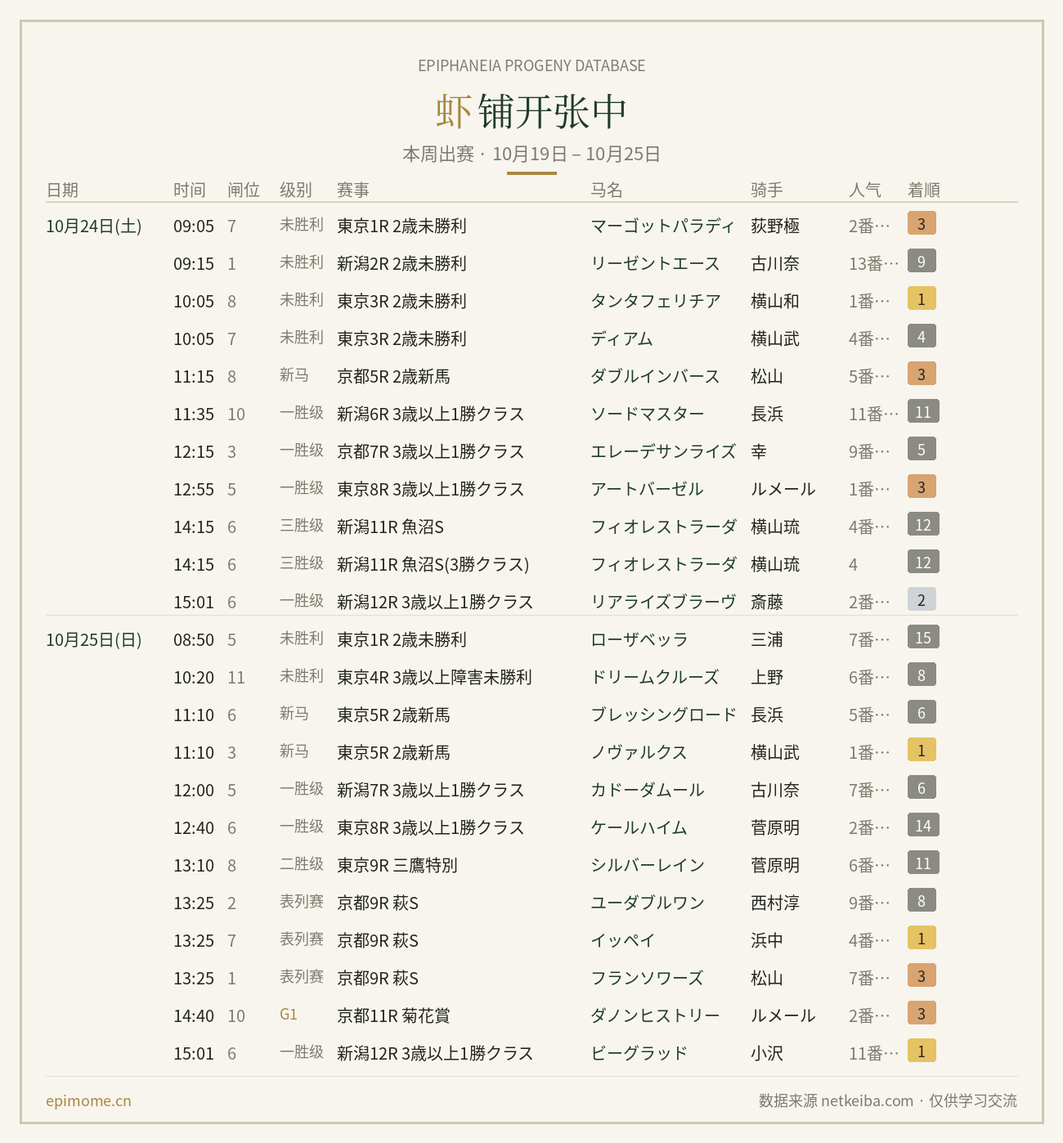
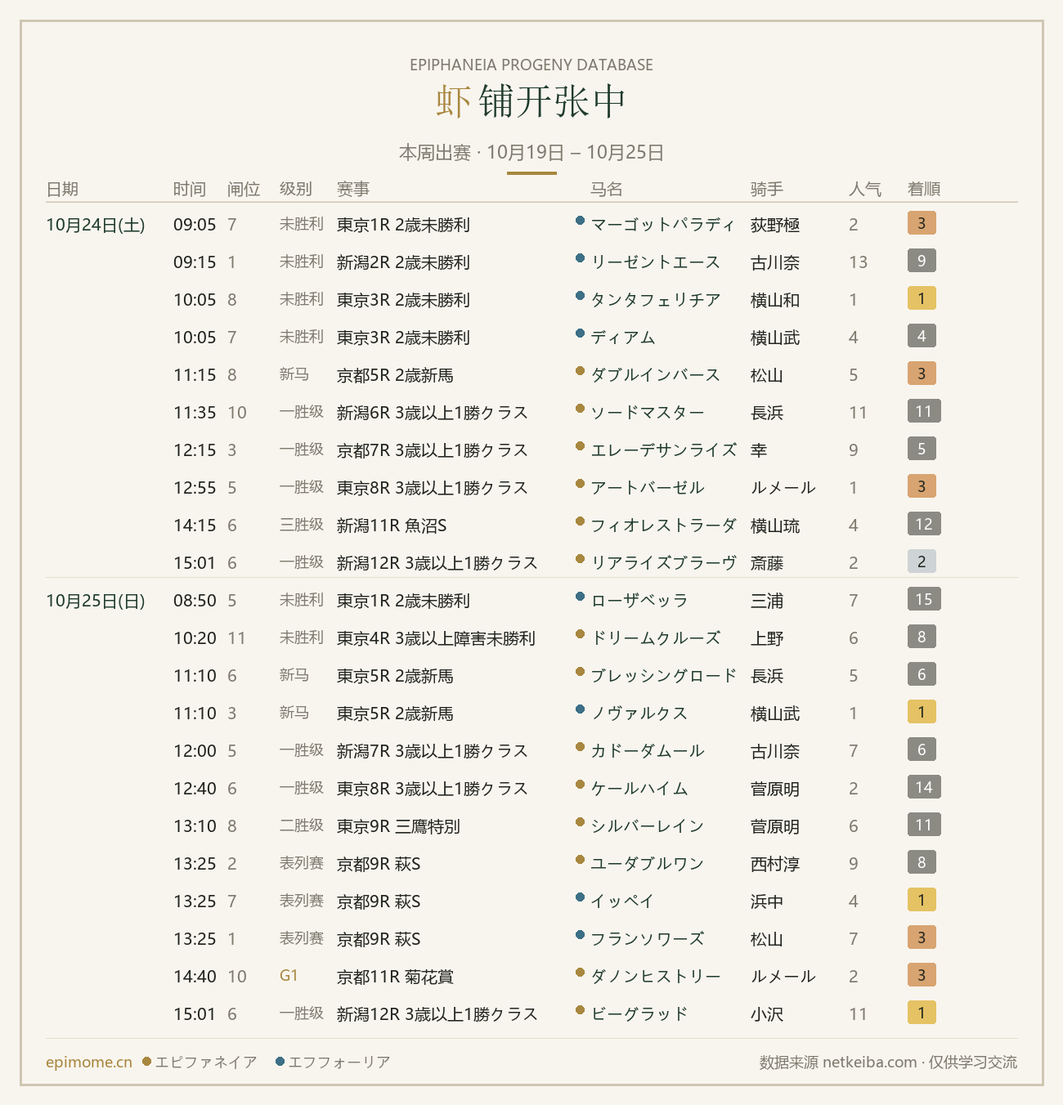
出赛体验优化
- 首页本周出赛显示日期（M/D）
- 本周出赛页新增周切换（可查看往期，默认本周）
- 首页本周无数据时自动显示最近一周
- 出赛表图片用金/蓝圆点区分两匹种马，底部加图例
- 人气列去掉「番人気」避免截断
- 合并时按 日期+马+场次 去重
- 次要文字与金色文字加深，满足对比度要求

diff --git a/thisweek.js b/thisweek.js
@@ -1,2 +1,2 @@
 // 本文件由 scrape_and_build.py 自动生成
-const 本周出马 = [{"date": "10月23日", "time": "13:10", "race": "笠松8R C11組", "cls": "", "status": "結果確定", "name": "レジオンポレール", "id": "2023103786", "jockey": "渡辺竜也", "fav": "", "order": "3", "num": "11", "sire": "エピファネイア", "region": "地方"}, {"date": "10月23日", "time": "14:25", "race": "浦和7R C1五六", "cls": "", "status": "結果確定", "name": "パドメ", "id": "2022107339", "jockey": "秋元耕成", "fav": "", "order": "12", "num": "1", "sire": "エピファネイア", "region": "地方"}, {"date": "10月23日", "time": "16:20", "race": "園田6R C3", "cls": "", "status": "結果確定", "name": "キャスパインパクト", "id": "2022100963", "jockey": "永井孝典", "fav": "", "order": "8", "num": "5", "sire": "エピファネイア", "region": "地方"}, {"date": "10月23日", "time": "17:30", "race": "園田8R C2二", "cls": "", "status": "結果確定", "name": "ヤマトフェイス", "id": "2021105013", "jockey": "田野豊三", "fav": "", "order": "2", "num": "9", "sire": "エピファネイア", "region": "地方"}, {"date": "10月24日(土)", "time": "09:05", "rid": "202605040801", "race": "東京1R 2歳未勝利", "cls": "未胜利", "status": "結果確定", "name": "マーゴットパラディ", "id": "2024101971", "jockey": "荻野極", "fav": "2番人気", "order": "3", "num": "7", "sire": "エフフォーリア", "region": "中央"}, {"date": "10月24日(土)", "time": "09:15", "rid": "202604040302", "race": "新潟2R 2歳未勝利", "cls": "未胜利", "status": "結果確定", "name": "リーゼントエース", "id": "2024104845", "jockey": "古川奈", "fav": "13番人気", "order": "9", "num": "1", "sire": "エフフォーリア", "region": "中央"}, {"date": "10月24日(土)", "time": "10:05", "rid": "202605040803", "race": "東京3R 2歳未勝利", "cls": "未胜利", "status": "結果確定", "name": "タンタフェリチア", "id": "2024101733", "jockey": "横山和", "fav": "1番人気", "order": "1", "num": "8", "sire": "エフフォーリア", "region": "中央"}, {"date": "10月24日(土)", "time": "10:05", "rid": "202605040803", "race": "東京3R 2歳未勝利", "cls": "未胜利", "status": "結果確定", "name": "ディアム", "id": "2024102901", "jockey": "横山武", "fav": "4番人気", "order": "4", "num": "7", "sire": "エフフォーリア", "region": "中央"}, {"date": "10月24日(土)", "time": "11:15", "rid": "202608040805", "race": "京都5R 2歳新馬", "cls": "新马", "status": "結果確定", "name": "ダブルインバース", "id": "2024100462", "jockey": "松山", "fav": "5番人気", "order": "3", "num": "8", "sire": "エピファネイア", "region": "中央"}, {"date": "10月24日(土)", "time": "11:35", "rid": "202604040306", "race": "新潟6R 3歳以上1勝クラス", "cls": "一胜级", "status": "結果確定", "name": "ソードマスター", "id": "2022105415", "jockey": "長浜", "fav": "11番人気", "order": "11", "num": "10", "sire": "エピファネイア", "region": "中央"}, {"date": "10月24日(土)", "time": "12:15", "rid": "202608040807", "race": "京都7R 3歳以上1勝クラス", "cls": "一胜级", "status": "結果確定", "name": "エレーデサンライズ", "id": "2023100912", "jockey": "幸", "fav": "9番人気", "order": "5", "num": "3", "sire": "エピファネイア", "region": "中央"}, {"date": "10月24日(土)", "time": "12:55", "rid": "202605040808", "race": "東京8R 3歳以上1勝クラス", "cls": "一胜级", "status": "結果確定", "name": "アートバーゼル", "id": "2023106964", "jockey": "ルメール", "fav": "1番人気", "order": "3", "num": "5", "sire": "エピファネイア", "region": "中央"}, {"date": "10月24日(土)", "time": "14:15", "rid": "202604040311", "race": "新潟11R 魚沼S", "cls": "三胜级", "status": "結果確定", "name": "フィオレストラーダ", "id": "2022100626", "jockey": "横山琉", "fav": "4番人気", "order": "12", "num": "6", "sire": "エピファネイア", "region": "中央"}, {"date": "10月24日(土)", "time": "14:15", "rid": "202604040311", "race": "新潟11R 魚沼S(3勝クラス)", "cls": "三胜级", "status": "結果確定", "name": "フィオレストラーダ", "id": "2022100626", "jockey": "横山琉", "fav": "4", "order": "12", "num": "6", "sire": "エピファネイア", "region": "中央"}, {"date": "10月24日(土)", "time": "15:01", "rid": "202604040312", "race": "新潟12R 3歳以上1勝クラス", "cls": "一胜级", "status": "結果確定", "name": "リアライズブラーヴ", "id": "2023103678", "jockey": "斎藤", "fav": "2番人気", "order": "2", "num": "6", "sire": "エピファネイア", "region": "中央"}, {"date": "10月24日", "time": "15:40", "rid": "202654102404", "race": "高知4R C3ー9", "cls": "", "status": "結果確定", "name": "エンドレスバンカー", "id": "2022102860", "jockey": "木村直輝", "fav": "", "order": "4", "num": "8", "sire": "エピファネイア", "region": "地方"}, {"date": "10月24日", "time": "15:40", "rid": "202654102404", "race": "高知4R C3ー9", "cls": "", "status": "結果確定", "name": "ケイベエ", "id": "2023102803", "jockey": "上田将司", "fav": "", "order": "9", "num": "12", "sire": "エピファネイア", "region": "地方"}, {"date": "10月25日(日)", "time": "08:50", "rid": "202605040901", "race": "東京1R 2歳未勝利", "cls": "未胜利", "status": "結果確定", "name": "ローザベッラ", "id": "2024101670", "jockey": "三浦", "fav": "7番人気", "order": "15", "num": "5", "sire": "エフフォーリア", "region": "中央"}, {"date": "10月25日(日)", "time": "10:20", "rid": "202605040904", "race": "東京4R 3歳以上障害未勝利", "cls": "未胜利", "status": "結果確定", "name": "ドリームクルーズ", "id": "2021104899", "jockey": "上野", "fav": "6番人気", "order": "8", "num": "11", "sire": "エピファネイア", "region": "中央"}, {"date": "10月25日(日)", "time": "11:10", "rid": "202605040905", "race": "東京5R 2歳新馬", "cls": "新马", "status": "結果確定", "name": "ブレッシングロード", "id": "2024106026", "jockey": "長浜", "fav": "5番人気", "order": "6", "num": "6", "sire": "エピファネイア", "region": "中央"}, {"date": "10月25日(日)", "time": "11:10", "rid": "202605040905", "race": "東京5R 2歳新馬", "cls": "新马", "status": "結果確定", "name": "ノヴァルクス", "id": "2024106557", "jockey": "横山武", "fav": "1番人気", "order": "1", "num": "3", "sire": "エフフォーリア", "region": "中央"}, {"date": "10月25日", "time": "11:15", "rid": "202635102502", "race": "盛岡2R C2十一組", "cls": "", "status": "結果確定", "name": "グロー", "id": "2019106683", "jockey": "山本聡紀", "fav": "", "order": "取止", "num": "1", "sire": "エピファネイア", "region": "地方"}, {"date": "10月25日(日)", "time": "12:00", "rid": "202604040407", "race": "新潟7R 3歳以上1勝クラス", "cls": "一胜级", "status": "結果確定", "name": "カドーダムール", "id": "2023107291", "jockey": "古川奈", "fav": "7番人気", "order": "6", "num": "5", "sire": "エピファネイア", "region": "中央"}, {"date": "10月25日(日)", "time": "12:40", "rid": "202605040908", "race": "東京8R 3歳以上1勝クラス", "cls": "一胜级", "status": "結果確定", "name": "ケールハイム", "id": "2023107138", "jockey": "菅原明", "fav": "2番人気", "order": "14", "num": "6", "sire": "エピファネイア", "region": "中央"}, {"date": "10月25日(日)", "time": "13:10", "rid": "202605040909", "race": "東京9R 三鷹特別", "cls": "二胜级", "status": "結果確定", "name": "シルバーレイン", "id": "2022104942", "jockey": "菅原明", "fav": "6番人気", "order": "11", "num": "8", "sire": "エピファネイア", "region": "中央"}, {"date": "10月25日(日)", "time": "13:25", "rid": "202608040909", "race": "京都9R 萩S", "cls": "表列赛", "status": "結果確定", "name": "ユーダブルワン", "id": "2024106002", "jockey": "西村淳", "fav": "9番人気", "order": "8", "num": "2", "sire": "エピファネイア", "region": "中央"}, {"date": "10月25日(日)", "time": "13:25", "rid": "202608040909", "race": "京都9R 萩S", "cls": "表列赛", "status": "結果確定", "name": "イッペイ", "id": "2024104442", "jockey": "浜中", "fav": "4番人気", "order": "1", "num": "7", "sire": "エフフォーリア", "region": "中央"}, {"date": "10月25日(日)", "time": "13:25", "rid": "202608040909", "race": "京都9R 萩S", "cls": "表列赛", "status": "結果確定", "name": "フランソワーズ", "id": "2024105037", "jockey": "松山", "fav": "7番人気", "order": "3", "num": "1", "sire": "エフフォーリア", "region": "中央"}, {"date": "10月25日(日)", "time": "14:40", "rid": "202608040911", "race": "京都11R 菊花賞", "cls": "G1", "status": "結果確定", "name": "ダノンヒストリー", "id": "2023107005", "jockey": "ルメール", "fav": "2番人気", "order": "3", "num": "10", "sire": "エピファネイア", "region": "中央"}, {"date": "10月25日(日)", "time": "15:01", "rid": "202604040412", "race": "新潟12R 3歳以上1勝クラス", "cls": "一胜级", "status": "結果確定", "name": "ビーグラッド", "id": "2021100683", "jockey": "小沢", "fav": "11番人気", "order": "1", "num": "6", "sire": "エピファネイア", "region": "中央"}, {"date": "10月25日", "time": "17:35", "rid": "202654102507", "race": "高知7R C3ー13", "cls": "", "status": "結果確定", "name": "トーセンブレンダ", "id": "2021104712", "jockey": "塚本直之", "fav": "", "order": "8", "num": "6", "sire": "エピファネイア", "region": "地方"}, {"date": "10月26日", "time": "19:40", "rid": "202655102612", "race": "佐賀12R SAGAリベFEVER14", "cls": "", "status": "出馬表", "name": "ハードロックスター", "id": "2022103590", "jockey": "山下裕貴", "fav": "13番人気", "order": "", "num": "14", "sire": "エピファネイア", "region": "地方"}, {"date": "10月27日", "time": "14:15", "rid": "202648102706", "race": "名古屋6R C20組", "cls": "", "status": "出馬表", "name": "ロマンス", "id": "2023102234", "jockey": "小笠原羚", "fav": "", "order": "", "num": "9", "sire": "エピファネイア", "region": "地方"}, {"date": "10月27日", "time": "15:20", "rid": "202635102709", "race": "盛岡9R C1二組", "cls": "", "status": "出馬表", "name": "サウンドノバ", "id": "2021103250", "jockey": "塚本涼人", "fav": "", "order": "", "num": "4", "sire": "エピファネイア", "region": "地方"}, {"date": "10月27日", "time": "15:55", "rid": "202635102710", "race": "盛岡10R シェアト賞", "cls": "", "status": "出馬表", "name": "ファーザーアウェイ", "id": "2023104371", "jockey": "山本政聡", "fav": "", "order": "", "num": "11", "sire": "エピファネイア", "region": "地方"}];
+const 本周出马 = [{"date": "10月23日", "time": "13:10", "race": "笠松8R C11組", "cls": "", "status": "結果確定", "name": "レジオンポレール", "id": "2023103786", "jockey": "渡辺竜也", "fav": "", "order": "3", "num": "11", "sire": "エピファネイア", "region": "地方"}, {"date": "10月23日", "time": "14:25", "race": "浦和7R C1五六", "cls": "", "status": "結果確定", "name": "パドメ", "id": "2022107339", "jockey": "秋元耕成", "fav": "", "order": "12", "num": "1", "sire": "エピファネイア", "region": "地方"}, {"date": "10月23日", "time": "16:20", "race": "園田6R C3", "cls": "", "status": "結果確定", "name": "キャスパインパクト", "id": "2022100963", "jockey": "永井孝典", "fav": "", "order": "8", "num": "5", "sire": "エピファネイア", "region": "地方"}, {"date": "10月23日", "time": "17:30", "race": "園田8R C2二", "cls": "", "status": "結果確定", "name": "ヤマトフェイス", "id": "2021105013", "jockey": "田野豊三", "fav": "", "order": "2", "num": "9", "sire": "エピファネイア", "region": "地方"}, {"date": "10月24日(土)", "time": "09:05", "rid": "202605040801", "race": "東京1R 2歳未勝利", "cls": "未胜利", "status": "結果確定", "name": "マーゴットパラディ", "id": "2024101971", "jockey": "荻野極", "fav": "2番人気", "order": "3", "num": "7", "sire": "エフフォーリア", "region": "中央"}, {"date": "10月24日(土)", "time": "09:15", "rid": "202604040302", "race": "新潟2R 2歳未勝利", "cls": "未胜利", "status": "結果確定", "name": "リーゼントエース", "id": "2024104845", "jockey": "古川奈", "fav": "13番人気", "order": "9", "num": "1", "sire": "エフフォーリア", "region": "中央"}, {"date": "10月24日(土)", "time": "10:05", "rid": "202605040803", "race": "東京3R 2歳未勝利", "cls": "未胜利", "status": "結果確定", "name": "タンタフェリチア", "id": "2024101733", "jockey": "横山和", "fav": "1番人気", "order": "1", "num": "8", "sire": "エフフォーリア", "region": "中央"}, {"date": "10月24日(土)", "time": "10:05", "rid": "202605040803", "race": "東京3R 2歳未勝利", "cls": "未胜利", "status": "結果確定", "name": "ディアム", "id": "2024102901", "jockey": "横山武", "fav": "4番人気", "order": "4", "num": "7", "sire": "エフフォーリア", "region": "中央"}, {"date": "10月24日(土)", "time": "11:15", "rid": "202608040805", "race": "京都5R 2歳新馬", "cls": "新马", "status": "結果確定", "name": "ダブルインバース", "id": "2024100462", "jockey": "松山", "fav": "5番人気", "order": "3", "num": "8", "sire": "エピファネイア", "region": "中央"}, {"date": "10月24日(土)", "time": "11:35", "rid": "202604040306", "race": "新潟6R 3歳以上1勝クラス", "cls": "一胜级", "status": "結果確定", "name": "ソードマスター", "id": "2022105415", "jockey": "長浜", "fav": "11番人気", "order": "11", "num": "10", "sire": "エピファネイア", "region": "中央"}, {"date": "10月24日(土)", "time": "12:15", "rid": "202608040807", "race": "京都7R 3歳以上1勝クラス", "cls": "一胜级", "status": "結果確定", "name": "エレーデサンライズ", "id": "2023100912", "jockey": "幸", "fav": "9番人気", "order": "5", "num": "3", "sire": "エピファネイア", "region": "中央"}, {"date": "10月24日(土)", "time": "12:55", "rid": "202605040808", "race": "東京8R 3歳以上1勝クラス", "cls": "一胜级", "status": "結果確定", "name": "アートバーゼル", "id": "2023106964", "jockey": "ルメール", "fav": "1番人気", "order": "3", "num": "5", "sire": "エピファネイア", "region": "中央"}, {"date": "10月24日(土)", "time": "14:15", "rid": "202604040311", "race": "新潟11R 魚沼S", "cls": "三胜级", "status": "結果確定", "name": "フィオレストラーダ", "id": "2022100626", "jockey": "横山琉", "fav": "4番人気", "order": "12", "num": "6", "sire": "エピファネイア", "region": "中央"}, {"date": "10月24日(土)", "time": "15:01", "rid": "202604040312", "race": "新潟12R 3歳以上1勝クラス", "cls": "一胜级", "status": "結果確定", "name": "リアライズブラーヴ", "id": "2023103678", "jockey": "斎藤", "fav": "2番人気", "order": "2", "num": "6", "sire": "エピファネイア", "region": "中央"}, {"date": "10月24日", "time": "15:40", "rid": "202654102404", "race": "高知4R C3ー9", "cls": "", "status": "結果確定", "name": "エンドレスバンカー", "id": "2022102860", "jockey": "木村直輝", "fav": "", "order": "4", "num": "8", "sire": "エピファネイア", "region": "地方"}, {"date": "10月24日", "time": "15:40", "rid": "202654102404", "race": "高知4R C3ー9", "cls": "", "status": "結果確定", "name": "ケイベエ", "id": "2023102803", "jockey": "上田将司", "fav": "", "order": "9", "num": "12", "sire": "エピファネイア", "region": "地方"}, {"date": "10月25日(日)", "time": "08:50", "rid": "202605040901", "race": "東京1R 2歳未勝利", "cls": "未胜利", "status": "結果確定", "name": "ローザベッラ", "id": "2024101670", "jockey": "三浦", "fav": "7番人気", "order": "15", "num": "5", "sire": "エフフォーリア", "region": "中央"}, {"date": "10月25日(日)", "time": "10:20", "rid": "202605040904", "race": "東京4R 3歳以上障害未勝利", "cls": "未胜利", "status": "結果確定", "name": "ドリームクルーズ", "id": "2021104899", "jockey": "上野", "fav": "6番人気", "order": "8", "num": "11", "sire": "エピファネイア", "region": "中央"}, {"date": "10月25日(日)", "time": "11:10", "rid": "202605040905", "race": "東京5R 2歳新馬", "cls": "新马", "status": "結果確定", "name": "ブレッシングロード", "id": "2024106026", "jockey": "長浜", "fav": "5番人気", "order": "6", "num": "6", "sire": "エピファネイア", "region": "中央"}, {"date": "10月25日(日)", "time": "11:10", "rid": "202605040905", "race": "東京5R 2歳新馬", "cls": "新马", "status": "結果確定", "name": "ノヴァルクス", "id": "2024106557", "jockey": "横山武", "fav": "1番人気", "order": "1", "num": "3", "sire": "エフフォーリア", "region": "中央"}, {"date": "10月25日", "time": "11:15", "rid": "202635102502", "race": "盛岡2R C2十一組", "cls": "", "status": "結果確定", "name": "グロー", "id": "2019106683", "jockey": "山本聡紀", "fav": "", "order": "取止", "num": "1", "sire": "エピファネイア", "region": "地方"}, {"date": "10月25日(日)", "time": "12:00", "rid": "202604040407", "race": "新潟7R 3歳以上1勝クラス", "cls": "一胜级", "status": "結果確定", "name": "カドーダムール", "id": "2023107291", "jockey": "古川奈", "fav": "7番人気", "order": "6", "num": "5", "sire": "エピファネイア", "region": "中央"}, {"date": "10月25日(日)", "time": "12:40", "rid": "202605040908", "race": "東京8R 3歳以上1勝クラス", "cls": "一胜级", "status": "結果確定", "name": "ケールハイム", "id": "2023107138", "jockey": "菅原明", "fav": "2番人気", "order": "14", "num": "6", "sire": "エピファネイア", "region": "中央"}, {"date": "10月25日(日)", "time": "13:10", "rid": "202605040909", "race": "東京9R 三鷹特別", "cls": "二胜级", "status": "結果確定", "name": "シルバーレイン", "id": "2022104942", "jockey": "菅原明", "fav": "6番人気", "order": "11", "num": "8", "sire": "エピファネイア", "region": "中央"}, {"date": "10月25日(日)", "time": "13:25", "rid": "202608040909", "race": "京都9R 萩S", "cls": "表列赛", "status": "結果確定", "name": "ユーダブルワン", "id": "2024106002", "jockey": "西村淳", "fav": "9番人気", "order": "8", "num": "2", "sire": "エピファネイア", "region": "中央"}, {"date": "10月25日(日)", "time": "13:25", "rid": "202608040909", "race": "京都9R 萩S", "cls": "表列赛", "status": "結果確定", "name": "イッペイ", "id": "2024104442", "jockey": "浜中", "fav": "4番人気", "order": "1", "num": "7", "sire": "エフフォーリア", "region": "中央"}, {"date": "10月25日(日)", "time": "13:25", "rid": "202608040909", "race": "京都9R 萩S", "cls": "表列赛", "status": "結果確定", "name": "フランソワーズ", "id": "2024105037", "jockey": "松山", "fav": "7番人気", "order": "3", "num": "1", "sire": "エフフォーリア", "region": "中央"}, {"date": "10月25日(日)", "time": "14:40", "rid": "202608040911", "race": "京都11R 菊花賞", "cls": "G1", "status": "結果確定", "name": "ダノンヒストリー", "id": "2023107005", "jockey": "ルメール", "fav": "2番人気", "order": "3", "num": "10", "sire": "エピファネイア", "region": "中央"}, {"date": "10月25日(日)", "time": "15:01", "rid": "202604040412", "race": "新潟12R 3歳以上1勝クラス", "cls": "一胜级", "status": "結果確定", "name": "ビーグラッド", "id": "2021100683", "jockey": "小沢", "fav": "11番人気", "order": "1", "num": "6", "sire": "エピファネイア", "region": "中央"}, {"date": "10月25日", "time": "17:35", "rid": "202654102507", "race": "高知7R C3ー13", "cls": "", "status": "結果確定", "name": "トーセンブレンダ", "id": "2021104712", "jockey": "塚本直之", "fav": "", "order": "8", "num": "6", "sire": "エピファネイア", "region": "地方"}, {"date": "10月26日", "time": "19:40", "rid": "202655102612", "race": "佐賀12R SAGAリベFEVER14", "cls": "", "status": "出馬表", "name": "ハードロックスター", "id": "2022103590", "jockey": "山下裕貴", "fav": "14番人気", "order": "", "num": "14", "sire": "エピファネイア", "region": "地方"}, {"date": "10月27日", "time": "14:15", "rid": "202648102706", "race": "名古屋6R C20組", "cls": "", "status": "出馬表", "name": "ロマンス", "id": "2023102234", "jockey": "小笠原羚", "fav": "", "order": "", "num": "9", "sire": "エピファネイア", "region": "地方"}, {"date": "10月27日", "time": "15:20", "rid": "202635102709", "race": "盛岡9R C1二組", "cls": "", "status": "出馬表", "name": "サウンドノバ", "id": "2021103250", "jockey": "塚本涼人", "fav": "", "order": "", "num": "4", "sire": "エピファネイア", "region": "地方"}, {"date": "10月27日", "time": "15:55", "rid": "202635102710", "race": "盛岡10R シェアト賞", "cls": "", "status": "出馬表", "name": "ファーザーアウェイ", "id": "2023104371", "jockey": "山本政聡", "fav": "", "order": "", "num": "11", "sire": "エピファネイア", "region": "地方"}];

diff --git a/index.html b/index.html
@@ -23,15 +23,15 @@
 <meta name="twitter:image" content="https://epimome.cn/og.png">
 <style>
   :root{
-    --bg:#f8f5ee;
-    --paper:#fffdf8;
+    --bg:#eeebe0;
+    --paper:#f9f6ea;
     --ink:#22241f;
-    --muted:#7e7a6f;
+    --muted:#6f6b60;
     --line:#e2ddcf;
     --line-strong:#cfc7b3;
     --brand:#1f3b2c;
     --brand2:#14281e;
-    --gold:#a8873f;
+    --gold:#8a6a2a;
     --gold-soft:#f3ecda;
     --epi:#a8873f;
     --effo:#3d6f86;
@@ -276,6 +276,8 @@
   }
   .tw-name:hover{background-size:100% 1px}
   .tw-range{font-size:12.5px;color:var(--muted);margin:-2px 0 10px;letter-spacing:1px}
+  .tw-weeks{display:flex;gap:8px;flex-wrap:wrap;margin-bottom:12px}
+  .tw-weeks .chip{font-size:12.5px;padding:4px 11px}
   .tw-actions{margin-bottom:14px}
   .tw-status{font-size:11px;color:var(--muted);margin-top:2px}
   .tw-cls{display:inline-block;background:var(--gold-soft);color:#7d6428;font-size:11px;padding:0 6px;border-radius:2px;margin-top:3px;font-weight:600}
@@ -286,7 +288,6 @@
   body.show-home .hero,body.show-home .toolbar,body.show-home .controls,body.show-home main,body.show-home #detail,body.show-home #changelog,body.show-home #thisweek{display:none}
   .home-wrap{max-width:860px;margin:0 auto;padding:54px 20px 60px}
   .home-hero{text-align:center;margin-bottom:40px}
-  .home-kicker{font-size:11px;letter-spacing:6px;color:var(--muted);text-transform:uppercase;margin-bottom:14px}
   .home-hero h1{
     font-family:var(--serif);font-size:54px;font-weight:700;letter-spacing:10px;
     line-height:1.2;margin:0;color:var(--brand2);
@@ -340,7 +341,7 @@
   .nav-card:hover{border-color:var(--gold);transform:translateY(-2px) scale(1.01);background:#fdfaf2}
   .nav-card:active{transform:scale(.99)}
   .home-updates,.home-birthday,.home-thisweek,.home-news,.home-videos{
-    background:var(--paper);border:1px solid var(--line);border-radius:2px;padding:20px 22px;margin-bottom:16px;
+    padding:6px 0 22px;margin-bottom:6px;
   }
   .home-updates h2,.home-birthday h2,.home-thisweek h2,.home-news h2,.home-videos h2{
     font-family:var(--serif);font-size:15px;letter-spacing:2px;color:var(--brand);
@@ -570,6 +571,7 @@
       <div class="log-card">
         <h2>本周出马</h2>
         <div class="tw-range" id="twRange"></div>
+        <div class="tw-weeks" id="twWeeks"></div>
         <div class="tw-actions"><a class="btn-plain" id="weekImgLink" href="weekly/latest.png" target="_blank" rel="noopener">查看本周图片 ↗</a></div>
         <div id="thisweekBody"></div>
       </div>
@@ -579,7 +581,6 @@
   <section id="home">
     <div class="home-wrap">
       <div class="home-hero">
-        <div class="home-kicker">Epiphaneia Progeny Database</div>
         <h1><span class="accent">虾</span>铺开张中<span class="beta-tag">Beta</span></h1>
         <div class="home-rule"></div>
         <p class="home-sub">エピファネイア（Epiphaneia）产驹数据库</p>
@@ -602,7 +603,7 @@
         <ul id="newsList"></ul>
       </div>
       <div class="home-thisweek">
-        <h2>本周出赛</h2>
+        <h2 id="homeTwTitle">本周出赛</h2>
         <div id="homeTwBody"></div>
       </div>
       <div class="home-birthday">
@@ -704,7 +705,8 @@
     farm:'', owner:'', trainer:'', year:'',
     winnerOnly:false,
     sortKey:null, sortDir:1,
-    view:'table', page:1
+    view:(window.matchMedia && window.matchMedia('(max-width:640px)').matches) ? 'card' : 'table',
+    page:1
   };
 
   // ---------- 常量（筛选用的取值） ----------
@@ -979,6 +981,9 @@
   });
 
   renderAll();
+
+  // 窄屏（≤640px）默认切到卡片视图，并同步「表格/卡片」切换按钮的高亮
+  document.querySelectorAll('.view-toggle button').forEach(x => x.classList.toggle('active', x.dataset.view === state.view));
 
   // ---------- 详情页 ----------
   function findHorse(key){
@@ -1513,6 +1518,45 @@
     }
     return false;
   }
+  function ymd(d){
+    return `${d.getFullYear()}-${String(d.getMonth() + 1).padStart(2, '0')}-${String(d.getDate()).padStart(2, '0')}`;
+  }
+  // 数据里出现过的周（按周一起始），最近的在前
+  function availableWeeks(all){
+    const map = new Map();
+    (all || []).forEach(r => {
+      const m = weekMondayOf(r.date);
+      if(m) map.set(ymd(m), m);
+    });
+    return [...map.entries()].sort((a, b) => b[0].localeCompare(a[0])).slice(0, 8);
+  }
+  // 某条记录所在周的周一
+  function weekMondayOf(dateStr){
+    const m = String(dateStr || '').match(/(\d{1,2})月(\d{1,2})日/);
+    if(!m) return null;
+    const d = new Date(new Date().getFullYear(), (+m[1]) - 1, +m[2]);
+    const day = (d.getDay() + 6) % 7;
+    return new Date(d.getFullYear(), d.getMonth(), d.getDate() - day);
+  }
+  // 本周有数据就用本周；否则显示最近有数据的一周（通常是上周）
+  function displayWeek(all){
+    const [curMon] = weekRange();
+    const curSun = new Date(curMon.getFullYear(), curMon.getMonth(), curMon.getDate() + 6);
+    const curRows = all.filter(r => inThisWeek(r.date));
+    if(curRows.length) return { mon: curMon, sun: curSun, rows: curRows, current: true };
+    let best = null;
+    all.forEach(r => {
+      const m = weekMondayOf(r.date);
+      if(m && (!best || m.getTime() > best.getTime())) best = m;
+    });
+    if(!best) return { mon: curMon, sun: curSun, rows: [], current: true };
+    const sun = new Date(best.getFullYear(), best.getMonth(), best.getDate() + 6);
+    const rows = all.filter(r => {
+      const m = weekMondayOf(r.date);
+      return m && m.getTime() === best.getTime();
+    });
+    return { mon: best, sun, rows, current: false };
+  }
   function rankCls(o){
     const s = String(o == null ? '' : o).trim();
     if(/^[123]$/.test(s)) return 'rank-' + s;
@@ -1570,20 +1614,40 @@
       </div>
     </div>`;
   }
+  let selectedWeekKey = null;
   function renderThisweek(){
     const all = (typeof 本周出马 !== 'undefined') ? 本周出马 : [];
-    const list = sortByDate(all.filter(r => inThisWeek(r.date)));
+    const weeks = availableWeeks(all);
+    const [curMon] = weekRange();
+    const curKey = ymd(curMon);
+    if(!selectedWeekKey || !weeks.some(w => w[0] === selectedWeekKey)){
+      selectedWeekKey = weeks.some(w => w[0] === curKey) ? curKey : (weeks.length ? weeks[0][0] : curKey);
+    }
+    const sel = weeks.find(w => w[0] === selectedWeekKey);
+    const selMon = sel ? sel[1] : curMon;
+    const selSun = new Date(selMon.getFullYear(), selMon.getMonth(), selMon.getDate() + 6);
+    const list = sortByDate(all.filter(r => {
+      const m = weekMondayOf(r.date);
+      return m && ymd(m) === selectedWeekKey;
+    }));
     const rangeEl = document.getElementById('twRange');
     if(rangeEl){
-      const [mon, sun] = weekRange();
       const fmt = d => `${d.getMonth() + 1}月${d.getDate()}日`;
-      rangeEl.textContent = `${fmt(mon)} – ${fmt(sun)}`;
+      rangeEl.textContent = `${fmt(selMon)} – ${fmt(selSun)}` + (selectedWeekKey === curKey ? '' : '（往期）');
+    }
+    const wkEl = document.getElementById('twWeeks');
+    if(wkEl){
+      wkEl.innerHTML = weeks.map(([k, m]) => {
+        const s = new Date(m.getFullYear(), m.getMonth(), m.getDate() + 6);
+        const label = `${m.getMonth() + 1}/${m.getDate()}–${s.getMonth() + 1}/${s.getDate()}` + (k === curKey ? ' 本周' : '');
+        return `<button class="chip${k === selectedWeekKey ? ' active' : ''}" data-week="${k}">${label}</button>`;
+      }).join('');
     }
     const imgLink = document.getElementById('weekImgLink');
-    if(imgLink) imgLink.href = 'weekly/latest.png?v=' + Date.now();
+    if(imgLink) imgLink.href = 'weekly/' + (selectedWeekKey === curKey ? 'latest.png' : selectedWeekKey + '.png') + '?v=' + Date.now();
     const el = document.getElementById('thisweekBody');
     if(!list.length){
-      el.innerHTML = '<p style="color:var(--muted);padding:20px 0">本周暂无产驹出赛。</p>';
+      el.innerHTML = '<p style="color:var(--muted);padding:20px 0">暂无产驹出赛记录。</p>';
       return;
     }
     const shownDates = new Set();
@@ -1609,6 +1673,12 @@
     html += '</tbody></table>';
     el.innerHTML = html;
   }
+  document.getElementById('twWeeks').addEventListener('click', e => {
+    const b = e.target.closest('[data-week]');
+    if(!b) return;
+    selectedWeekKey = b.dataset.week;
+    renderThisweek();
+  });
   document.getElementById('twBtn').addEventListener('click', () => {
     document.body.classList.remove('show-detail', 'show-log', 'show-home');
     document.body.classList.add('show-tw');
@@ -1797,13 +1867,19 @@
   // ---------- 本周出赛栏目（首页固定位置） ----------
   function renderHomeTw(){
     const all = (typeof 本周出马 !== 'undefined') ? 本周出马 : [];
-    const list = sortByDate(all.filter(r => inThisWeek(r.date)));
+    const wk = displayWeek(all);
+    const list = sortByDate(wk.rows);
+    const title = document.getElementById('homeTwTitle');
+    if(title) title.textContent = wk.current ? '本周出赛' : '上周出赛';
     const el = document.getElementById('homeTwBody');
     if(!el) return;
-    const items = list.slice(0, 15).map(r =>
-      `<div class="home-tw-item"><a href="#/horse/${encodeURIComponent(r.id || r.name)}">${esc(r.name)}</a><span>${esc((r.time ? r.time + ' ' : '') + (r.race || ''))}</span></div>`
-    ).join('');
-    el.innerHTML = items || '<div class="home-tw-item" style="color:var(--muted)">本周暂无出赛</div>';
+    const items = list.slice(0, 15).map(r => {
+      const md = String(r.date || '').match(/(\d{1,2})月(\d{1,2})日/);
+      const dshort = md ? `${+md[1]}/${+md[2]}` : '';
+      const meta = [dshort, r.time, r.race].filter(Boolean).join(' ');
+      return `<div class="home-tw-item"><a href="#/horse/${encodeURIComponent(r.id || r.name)}">${esc(r.name)}</a><span>${esc(meta)}</span></div>`;
+    }).join('');
+    el.innerHTML = items || '<div class="home-tw-item" style="color:var(--muted)">暂无出赛</div>';
   }
 
   // ---------- 反馈窗口 ----------

diff --git a/scrape_and_build.py b/scrape_and_build.py
@@ -1088,6 +1088,20 @@ def fill_results(runners):
     return runners
 
 
+def dedupe_thisweek(rows):
+    """同一匹马、同一天、同一场次只保留一条（优先保留已有着顺的）"""
+    out = {}
+    for r in rows:
+        m = re.search(r'(\d{1,2})月(\d{1,2})日', r.get('date', ''))
+        md = f'{int(m.group(1)):02d}{int(m.group(2)):02d}' if m else ''
+        rn = re.search(r'(\d+)R', r.get('race', ''))
+        key = (md, r.get('id') or r.get('name'), rn.group(1) if rn else '')
+        prev = out.get(key)
+        if not prev or (not prev.get('order') and r.get('order')):
+            out[key] = r
+    return list(out.values())
+
+
 def write_thisweek(runners):
     js = '// 本文件由 scrape_and_build.py 自动生成\nconst 本周出马 = ' + \
         json.dumps(runners, ensure_ascii=False) + ';\n'
@@ -1243,9 +1257,13 @@ def make_week_image(runners, ref_date=None, save_latest=True):
         d.text((342, y + 10), clip(cls, 62, f_small), font=f_small,
                fill=GOLD if cls.startswith('G') else MUTED)
         d.text((412, y + 10), clip(r.get('race'), 300, f_cell), font=f_cell, fill=INK)
+        sire = r.get('sire') or ''
+        dot_col = GOLD if sire == 'エピファネイア' else ((61, 111, 134) if 'エフフォーリア' in sire else MUTED)
+        d.ellipse([704, y + 14, 714, y + 24], fill=dot_col)
         d.text((722, y + 10), clip(r.get('name'), 188, f_cell), font=f_cell, fill=GREEN)
         d.text((918, y + 10), clip(r.get('jockey'), 112, f_cell), font=f_cell, fill=INK)
-        d.text((1038, y + 10), clip(r.get('fav'), 66, f_cell), font=f_cell, fill=MUTED)
+        fav_disp = str(r.get('fav') or '').replace('番人気', '')
+        d.text((1038, y + 10), clip(fav_disp, 66, f_cell), font=f_cell, fill=MUTED)
         order = str(r.get('order') or '').strip()
         if order:
             bg = RANK_BG.get(int(order)) if order.isdigit() and 1 <= int(order) <= 3 else GRAY_BG
@@ -1262,6 +1280,12 @@ def make_week_image(runners, ref_date=None, save_latest=True):
     foot_y = H - 66
     d.line([pad, foot_y - 16, W - pad, foot_y - 16], fill=LINE, width=1)
     d.text((pad, foot_y), 'epimome.cn', font=f_small, fill=GOLD)
+    # 种马图例
+    lx = pad + 118
+    for label, col in (('エピファネイア', GOLD), ('エフフォーリア', (61, 111, 134))):
+        d.ellipse([lx, foot_y + 7, lx + 10, foot_y + 17], fill=col)
+        d.text((lx + 15, foot_y), label, font=f_small, fill=MUTED)
+        lx += 15 + tw(label, f_small) + 22
     note = '数据来源 netkeiba.com · 仅供学习交流'
     d.text((W - pad - tw(note, f_small), foot_y), note, font=f_small, fill=MUTED)
 
@@ -1369,6 +1393,7 @@ def main():
     if len(tw) >= MIN_THISWEEK:
         tw = merge_thisweek(tw, load_thisweek())
         tw = fill_results(tw)
+        tw = dedupe_thisweek(tw)
         write_thisweek(tw)
         try:
             make_week_image(tw)

diff --git a/scrape_thisweek_only.py b/scrape_thisweek_only.py
@@ -8,6 +8,7 @@ if len(runners) < sb.MIN_THISWEEK:
     sys.exit(f'本周出赛抓取异常（{len(runners)} 条 < {sb.MIN_THISWEEK}），保留旧数据')
 runners = sb.merge_thisweek(runners, sb.load_thisweek())
 runners = sb.fill_results(runners)
+runners = sb.dedupe_thisweek(runners)
 sb.write_thisweek(runners)
 sb.bump_asset_version()
 try:
